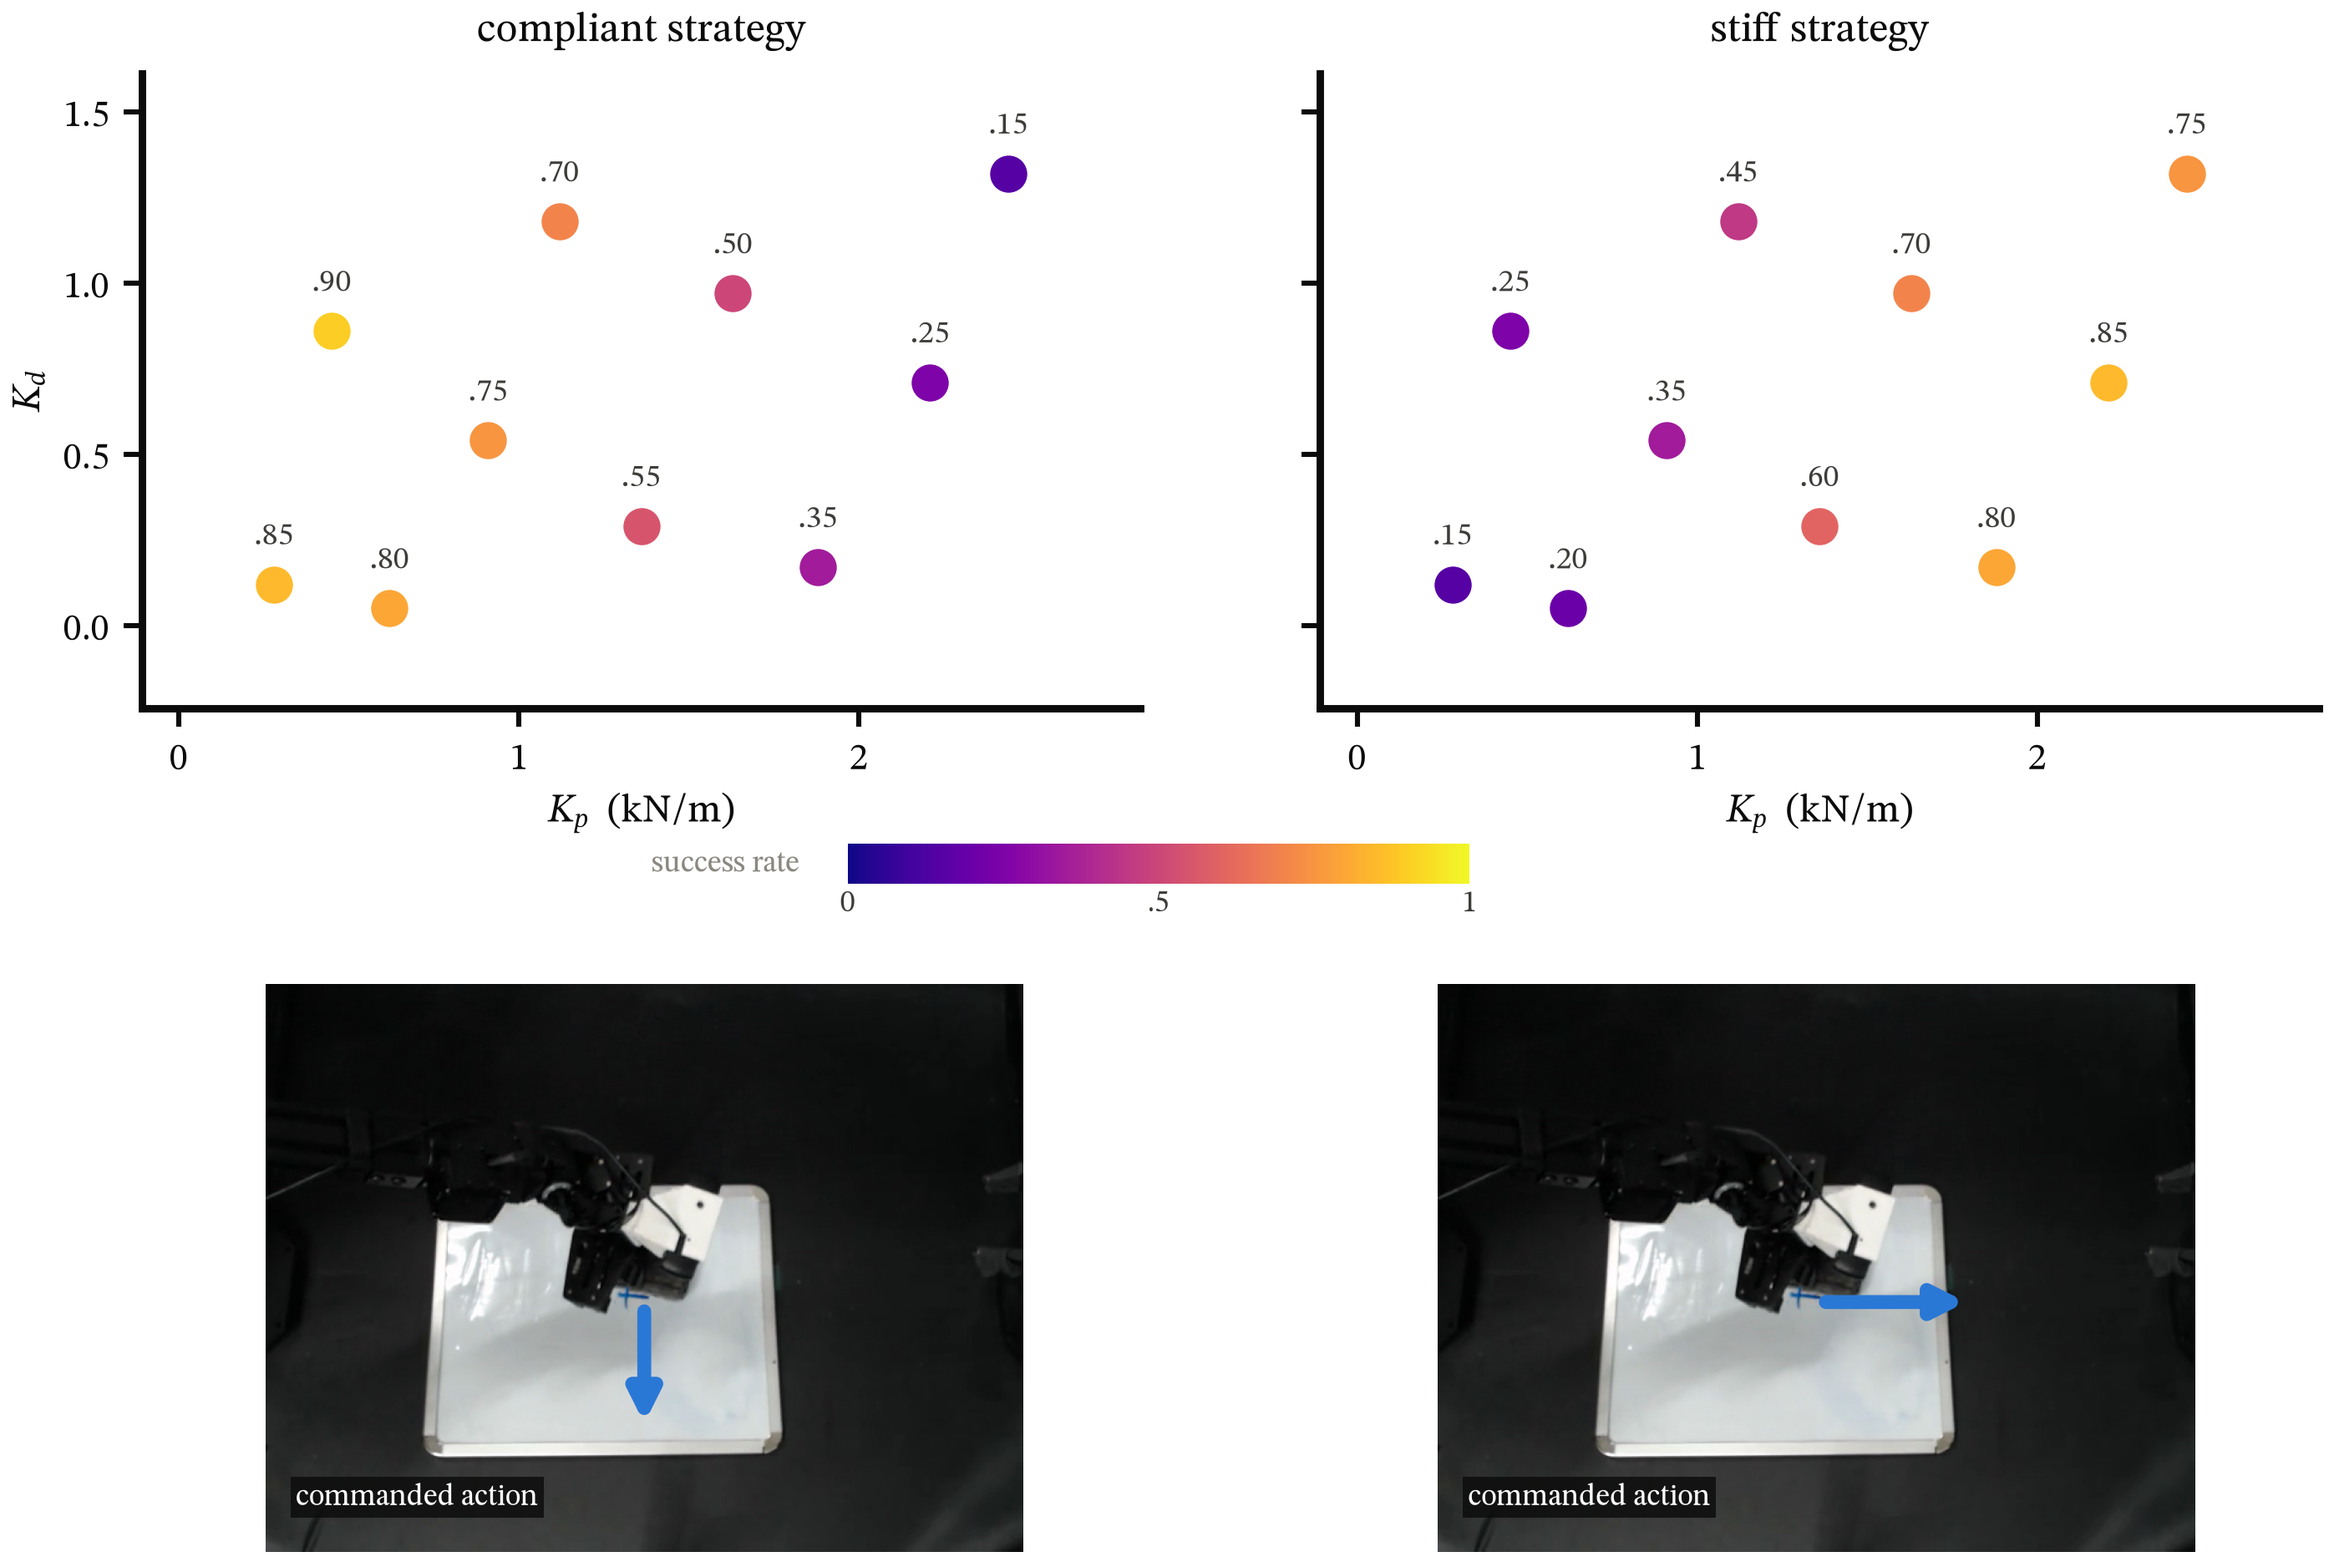
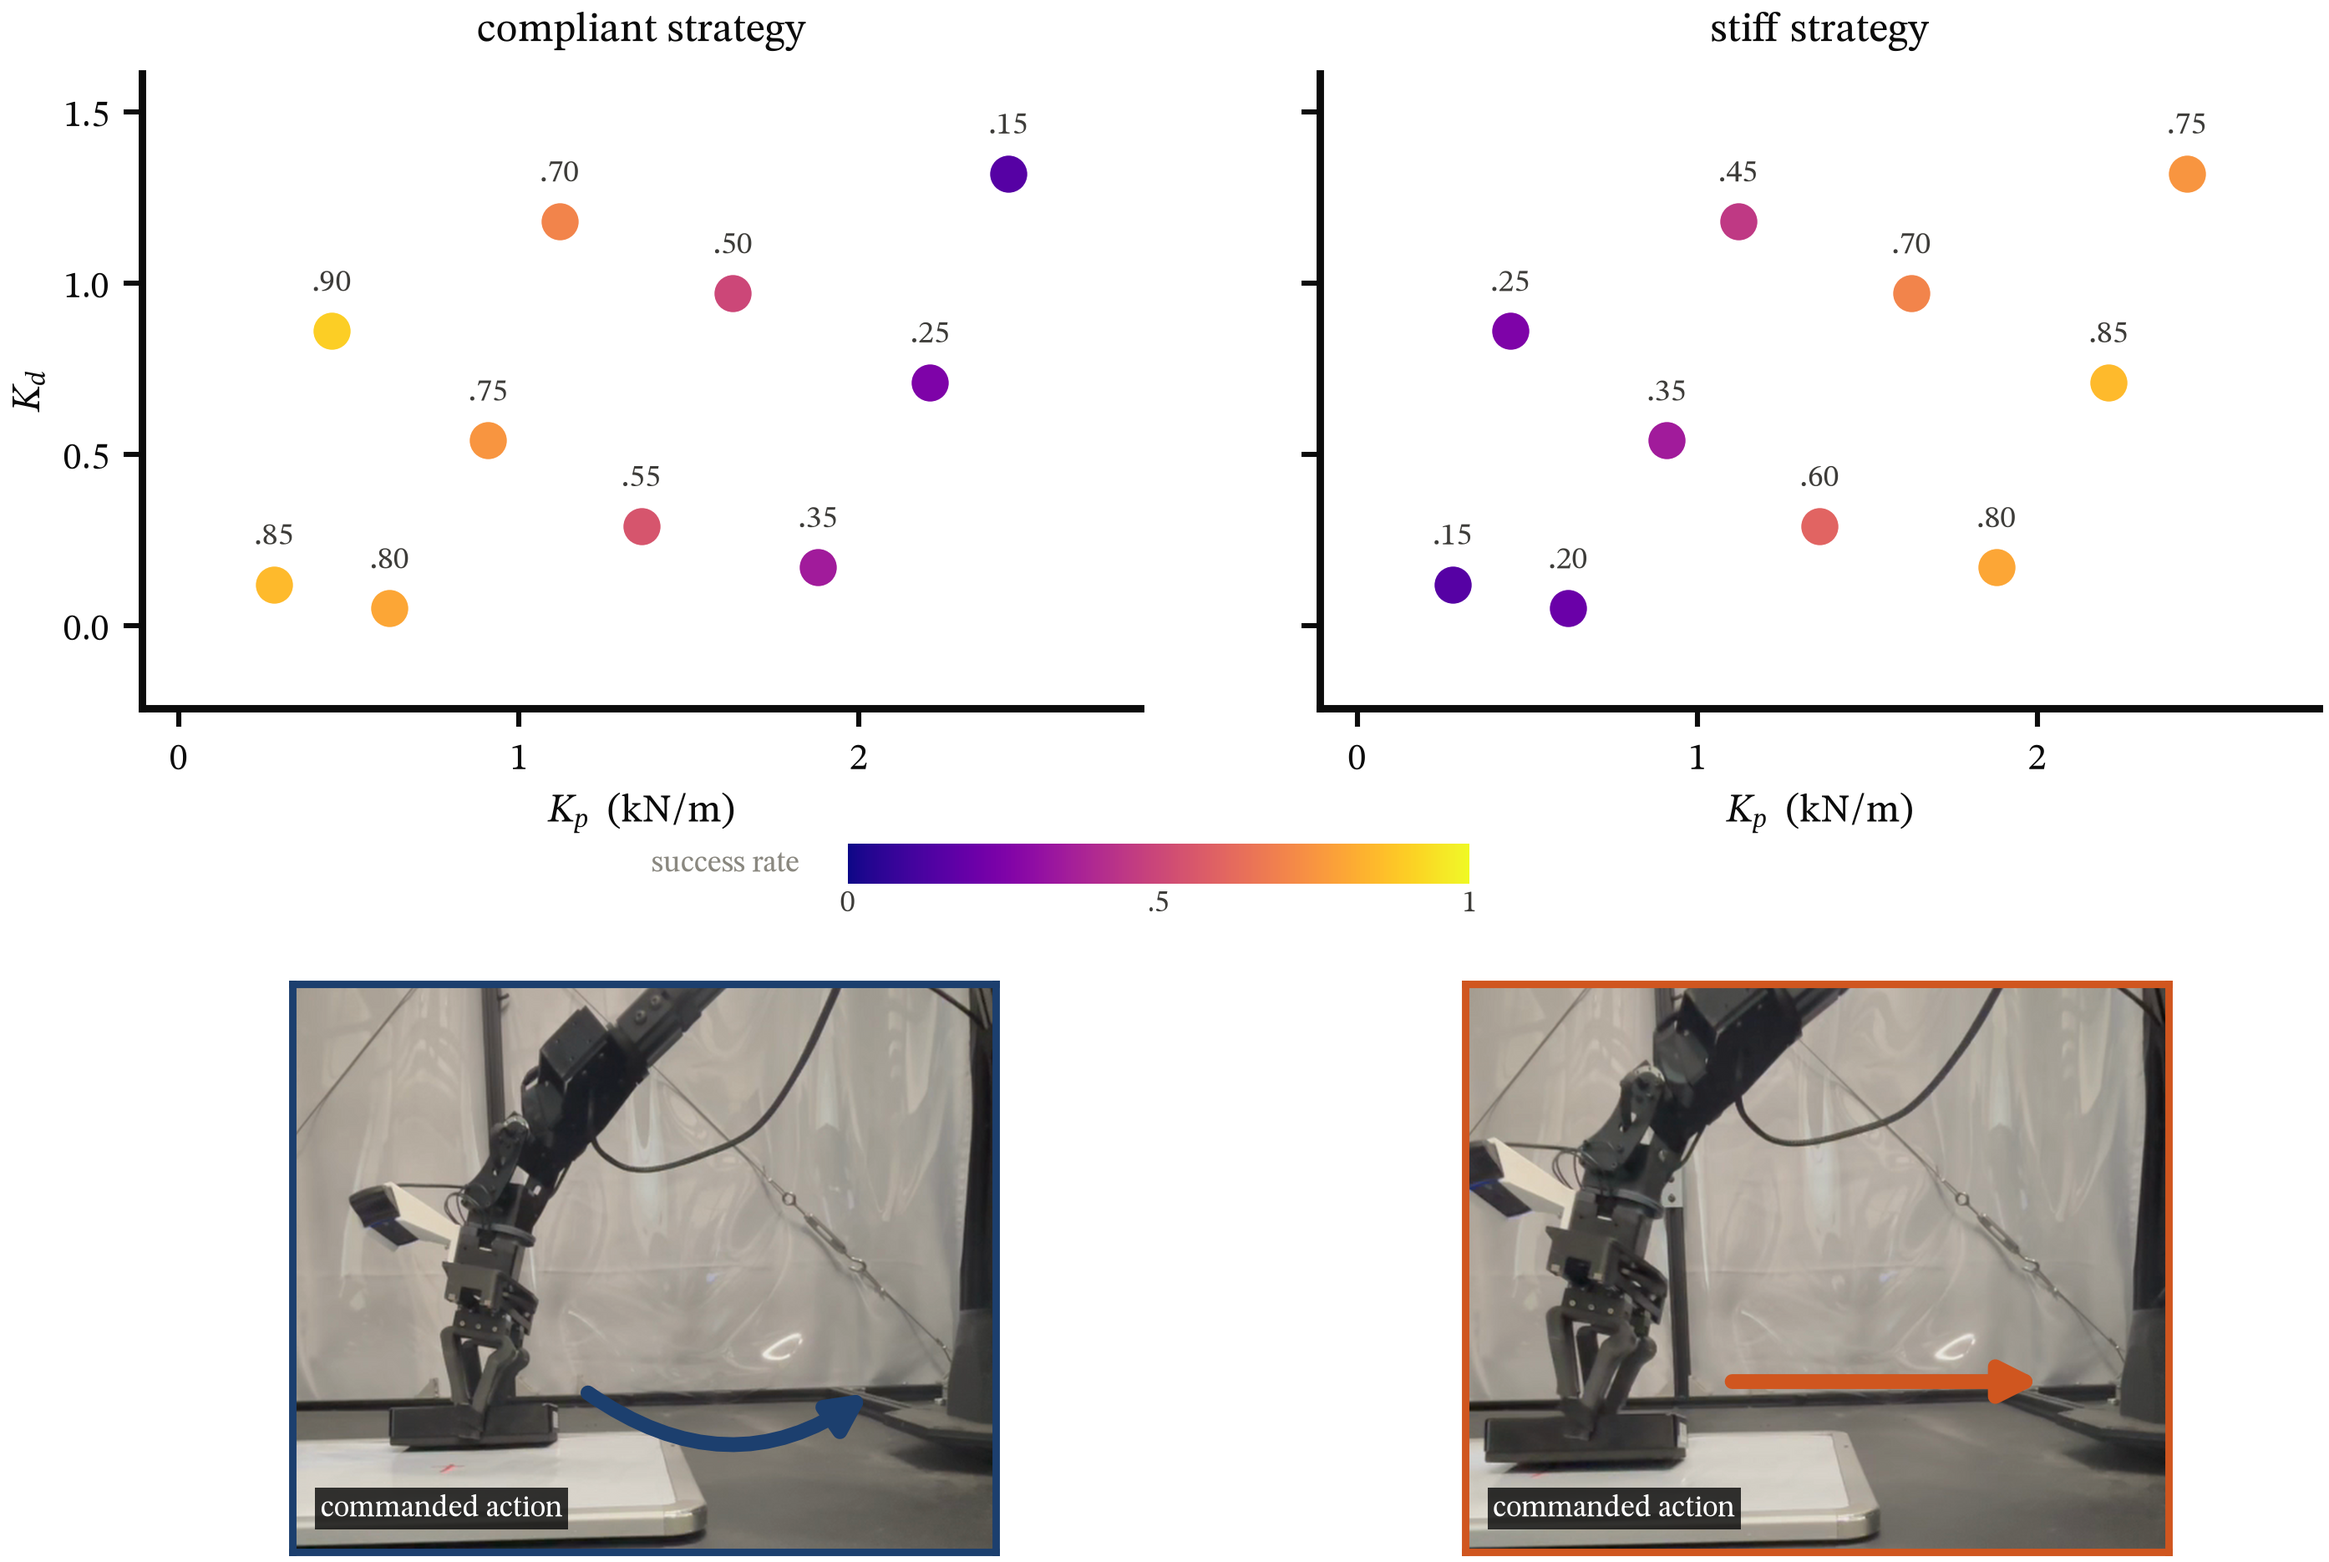
Add code link, de-anonymize authors, update strategy figure and rollout text

Changed region(s): [[0.5929, 0.6203, 0.9674, 1.0], [0.0936, 0.6203, 0.4369, 1.0]]

diff --git a/index.html b/index.html
@@ -213,6 +213,12 @@
     gap: 0.75rem 1rem; align-items: center; max-width: 46rem; width: 100%; margin-inline: auto;
   }
   .combo-grid[hidden] { display: none; }
+  .takeaway {
+    max-width: 46rem; width: 100%; margin: 0.5rem auto 0; display: grid; gap: 0.5rem;
+    padding: 1.1rem 1.25rem; border-left: 3px solid var(--compliant); background: var(--code-bg); border-radius: 0 4px 4px 0;
+  }
+  .takeaway p { margin: 0; line-height: 1.55; }
+  .takeaway b { font-weight: 500; }
   .combo-grid .colhead { font-family: var(--mono); font-size: 0.75rem; letter-spacing: 0.04em; text-transform: uppercase; }
   .combo-grid .rowhead {
     font-family: var(--mono); font-size: 0.75rem; letter-spacing: 0.04em; text-transform: uppercase;
@@ -265,11 +271,11 @@
 <main>
   <header class="top">
     <h1>Cross-Controller Transfer via <i>In-Context</i> Behavior&nbsp;Adaptation</h1>
-    <p class="authors" style="margin:0">Anonymous Authors <span class="aff">· Under review</span></p>
+    <p class="authors" style="margin:0">Jonathan Yang, Chelsea Finn, Dorsa Sadigh <span class="aff">· Stanford University</span></p>
     <nav class="links" aria-label="Paper resources">
       <span>Paper · soon</span>
       <span>arXiv · soon</span>
-      <span>Code · soon</span>
+      <a href="https://github.com/JonathanYang0127/icl_cross_controller">Code</a>
       <a href="#bibtex">BibTeX</a>
     </nav>
   </header>
@@ -300,6 +306,7 @@
     <div class="stack">
       <div class="prose">
         <p>VR teleoperation might record compliant Cartesian commands; puppeteering might record stiff joint targets. Pool the two and the same action <i>a</i> carries two physical meanings. Large multi-robot datasets sidestep this because each controller lives in its own lab, so the scene gives it away. Once one robot runs several controllers, it doesn't.</p>
+        <p>Controllers differ along two axes. The <b style="font-weight:500">controller type</b> sets what an action means: a joint-position target, a joint velocity, an end-effector pose solved through IK, or an impedance setpoint the arm is pulled toward like a spring. The <b style="font-weight:500">gains</b> set how hard it pulls. A high proportional gain <i>K<sub>p</sub></i> makes the arm stiff: it tracks commands precisely and pushes hard against anything in its way. A low <i>K<sub>p</sub></i> makes it compliant: it lags its commands and yields on contact. The derivative gain <i>K<sub>d</sub></i> damps the motion. We use six controller types with four gain settings each, and evaluate unseen joint-impedance gains from (0.28, 0.12) to (2.44, 1.32) kN/m. Two controllers can share an action space and still need different behavior, because the gains change what happens the moment the robot touches something.</p>
         <p>The obvious fix is system identification: estimate the controller, then relabel each demonstrated command so the target controller produces the same torque. For the PD law shared by all our controllers, that remap is</p>
         <div class="eq" role="math" aria-label="q prime d equals q plus K prime inverse times the quantity K times q d minus q, plus D minus D prime times q dot d minus q dot">
           <i>q</i>′<sub><i>d</i></sub> = <i>q</i> + (<i>K</i>′)<sup>−1</sup>[ <i>K</i>(<i>q<sub>d</sub></i> − <i>q</i>) + (<i>D</i> − <i>D</i>′)(<i>q̇<sub>d</sub></i> − <i>q̇</i>) ]
@@ -351,9 +358,9 @@
       <h2>The best strategy depends on the controller</h2>
     </header>
     <div class="split narrow-fig">
-      <figure class="plate"><img src="assets/fig/strategy_gain_compatibility.png" alt="Two wiping strategies evaluated across a grid of Kp and Kd gains. The compliant strategy succeeds 80 to 90 percent at low stiffness; the stiff strategy succeeds 75 to 85 percent at high stiffness." loading="lazy"></figure>
+      <figure class="plate"><img src="assets/fig/strategy_gain_compatibility.png" alt="Two wiping strategies evaluated across a grid of Kp and Kd gains. The compliant strategy succeeds 80 to 90 percent at low stiffness; the stiff strategy succeeds 75 to 85 percent at high stiffness. Below, side-view photos show the compliant strategy sweeping the eraser through contact and the stiff strategy tracing a straight line." loading="lazy"></figure>
       <div class="prose">
-        <p>We evaluated two learned wiping strategies across the same (<i>K<sub>p</sub></i>, <i>K<sub>d</sub></i>) plane. At low stiffness, <em class="c">compliant pressing</em> reaches 80–90% while <em class="s">stiff tracing</em> manages only 15–25%. At high stiffness the order flips: stiff tracing reaches 75–85% and compliant pressing overloads under excessive contact force.</p>
+        <p>We evaluated two learned wiping strategies across the same (<i>K<sub>p</sub></i>, <i>K<sub>d</sub></i>) plane. At low stiffness, <em class="c">compliant sweeping</em> reaches 80–90% while <em class="s">stiff tracing</em> manages only 15–25%. At high stiffness the order flips: stiff tracing reaches 75–85% and compliant sweeping overloads under excessive contact force.</p>
         <p>Neither strategy wins everywhere. So identifying the gains isn't enough; the policy has to choose behavior that suits them.</p>
       </div>
     </div>
@@ -392,13 +399,21 @@
 
   <section id="rollouts">
     <header>
-      <h2>Real-world rollouts</h2>
+      <span class="label">Rollouts</span>
+      <h2>The policy adapts its strategy to the controller</h2>
     </header>
+    <div class="prose">
+      <p>Every clip is a real-world rollout of the same trained policy. Each row fixes the controller the robot runs at deployment. Each column fixes the conditioning: we encode an interaction trajectory recorded under a stiff or compliant controller and pass the resulting tokens to the policy, which then carries out the strategy that context implies. On the diagonal the context matches the controller; off the diagonal it comes from the other one.</p>
+    </div>
     <div class="combos">
       <div class="tabs" role="tablist" aria-label="Task"></div>
       <div class="combo-panels"></div>
-      <p class="figcap">Each grid crosses the controller the robot runs (rows) with the strategy it uses (columns). The strategy that matches the controller succeeds; the mismatched one fails. Inset: wrist camera.</p>
+      <p class="figcap">Rows: deployment controller. Columns: the controller the encoded context trajectory was recorded under, which sets the strategy. Inset: wrist camera.</p>
     </div>
+    <aside class="takeaway" aria-label="Key takeaway">
+      <span class="label">Key takeaway</span>
+      <p><b>The policy changes its strategy, not just its actions, to match the controller.</b> On whiteboard wiping, compliant context makes it press down into the board, while stiff context makes it trace lightly across the surface. It succeeds far more often when the context matches the deployment controller, as you would expect. In the mismatched cells it still faithfully carries out the strategy the context implies, even though that strategy is wrong for the arm it is on. That is the evidence the policy is reading its conditioning instead of ignoring it.</p>
+    </aside>
   </section>
 
   <section id="results">
@@ -438,9 +453,9 @@
     <header><span class="label">Citation</span></header>
     <div class="bib">
       <button type="button" id="copy-bib">Copy</button>
-<pre id="bib-text">@article{anonymous2026crosscontroller,
+<pre id="bib-text">@article{yang2026crosscontroller,
   title   = {Cross-Controller Transfer via In-Context Behavior Adaptation},
-  author  = {Anonymous},
+  author  = {Yang, Jonathan and Finn, Chelsea and Sadigh, Dorsa},
   year    = {2026}
 }</pre>
     </div>
